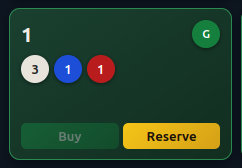
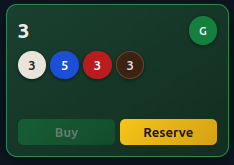
fix: Disable reserve button when no gold gems remain or reserve limit reached

Changed region(s): [[0.0, 0.0, 1.0, 0.9697], [0.0897, 0.8788, 0.4786, 0.9091]]

diff --git a/src/components/CardTiers.tsx b/src/components/CardTiers.tsx
@@ -16,10 +16,14 @@ export default function CardTiers() {
   const onlineState = useGameStore(s => s.onlineState);
   const currentPlayerIndex = useGameStore(s => s.currentPlayerIndex);
 
+  const goldSupply = useGameStore(s => s.board.gemSupply.gold);
+  const reservedCount = useGameStore(s => s.players[s.currentPlayerIndex].reserved.length);
+
   const { suppressedCardIds } = useAnimation();
 
   const isMyTurn = !onlineState || onlineState.myPlayerIndex === currentPlayerIndex;
   const blocked = !!pendingDiscard || !!pendingNobles || !isMyTurn;
+  const canReserve = goldSupply > 0 && reservedCount < 3;
 
   return (
     <div className="card-tiers">
@@ -32,7 +36,7 @@ export default function CardTiers() {
           <div key={tier} className="card-tier">
             <button
               className="deck-button"
-              disabled={deckSize === 0 || blocked}
+              disabled={deckSize === 0 || blocked || !canReserve}
               onClick={() => reserveCard({ fromDeck: tier })}
             >
               <span>Tier {tier}</span>

diff --git a/src/components/Card.tsx b/src/components/Card.tsx
@@ -24,9 +24,13 @@ export default function Card({ card, showActions = true, showLabel = false }: Ca
   const onlineState = useGameStore(s => s.onlineState);
   const currentPlayerIndex = useGameStore(s => s.currentPlayerIndex);
 
+  const goldSupply = useGameStore(s => s.board.gemSupply.gold);
+  const reservedCount = useGameStore(s => s.players[s.currentPlayerIndex].reserved.length);
+
   const affordable = canAfford(card, player);
   const isMyTurn = !onlineState || onlineState.myPlayerIndex === currentPlayerIndex;
   const blocked = !!pendingDiscard || !!pendingNobles || !isMyTurn;
+  const canReserve = goldSupply > 0 && reservedCount < 3;
 
   const costs = COLORED_GEMS.filter(c => (card.cost[c] ?? 0) > 0);
 
@@ -55,7 +59,7 @@ export default function Card({ card, showActions = true, showLabel = false }: Ca
           </button>
           <button
             className="btn-reserve"
-            disabled={blocked}
+            disabled={blocked || !canReserve}
             onClick={() => reserveCard(card)}
           >
             Reserve
